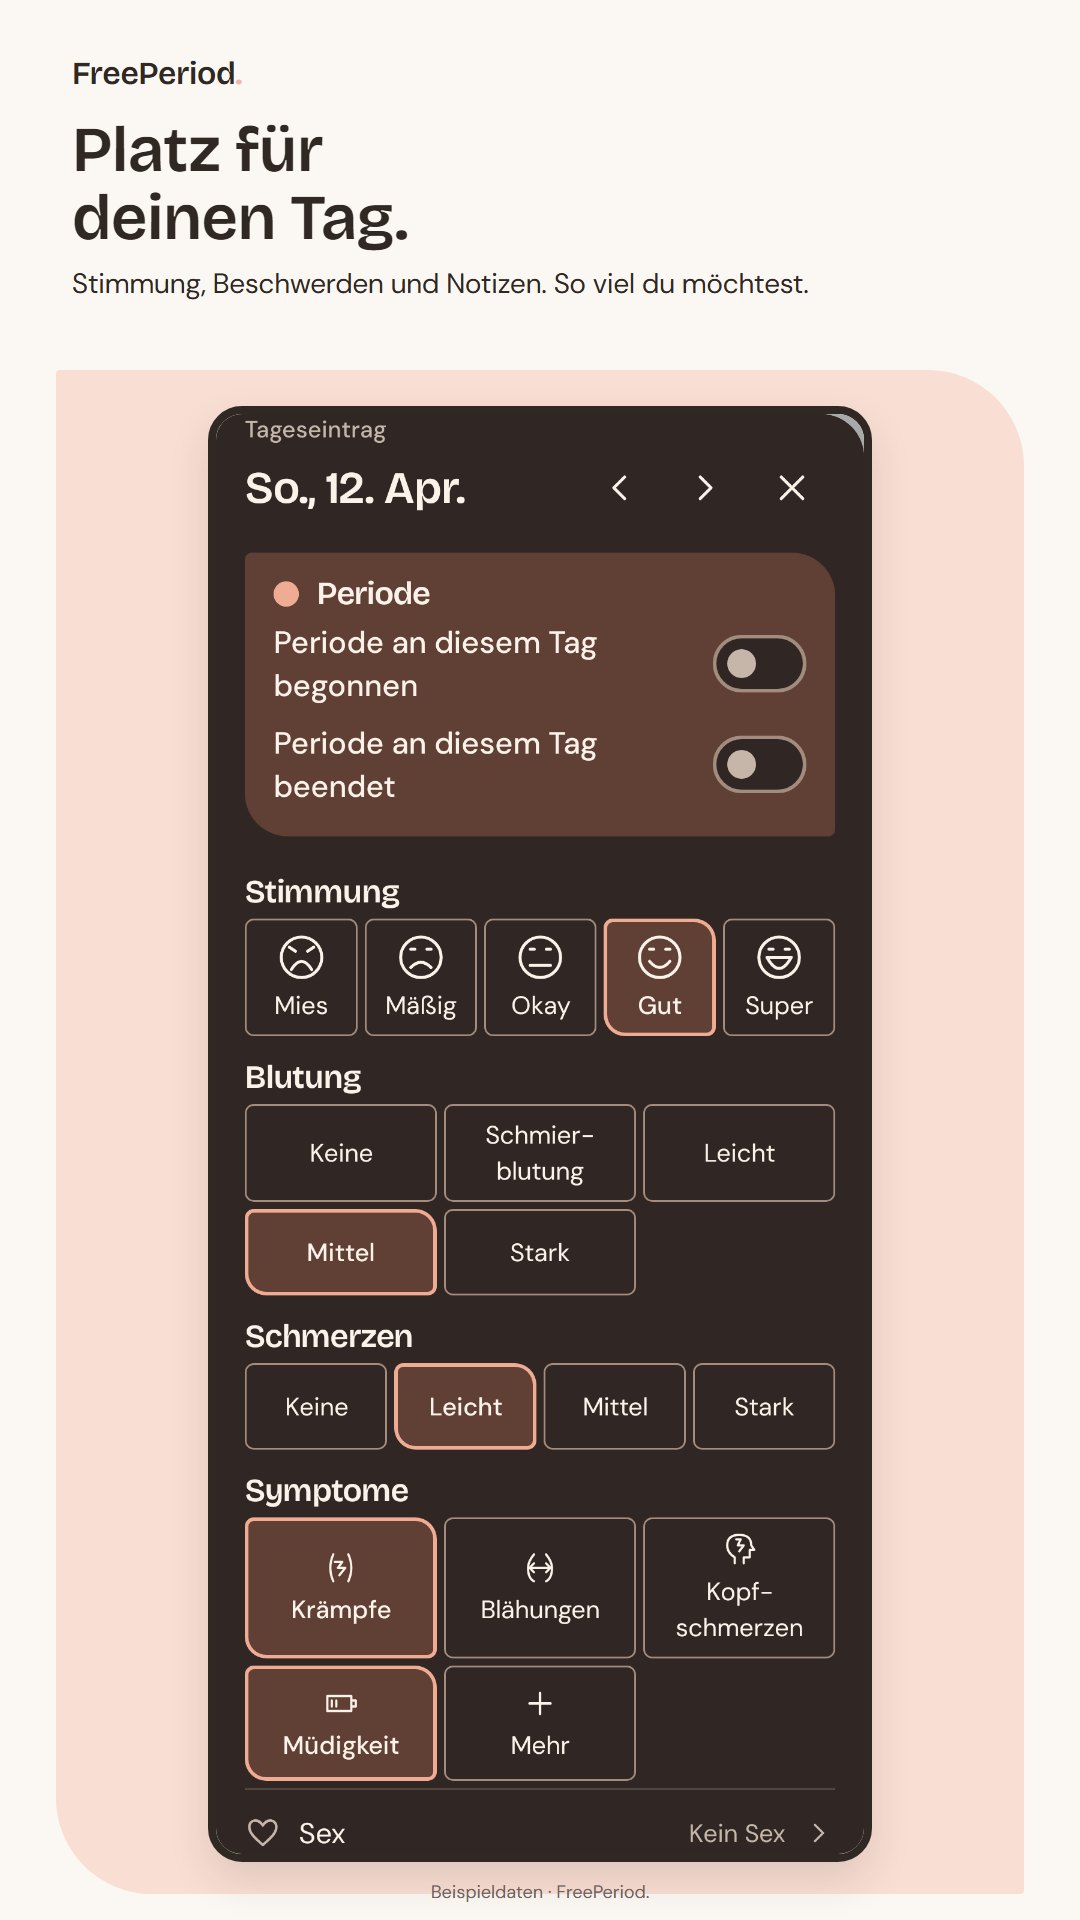
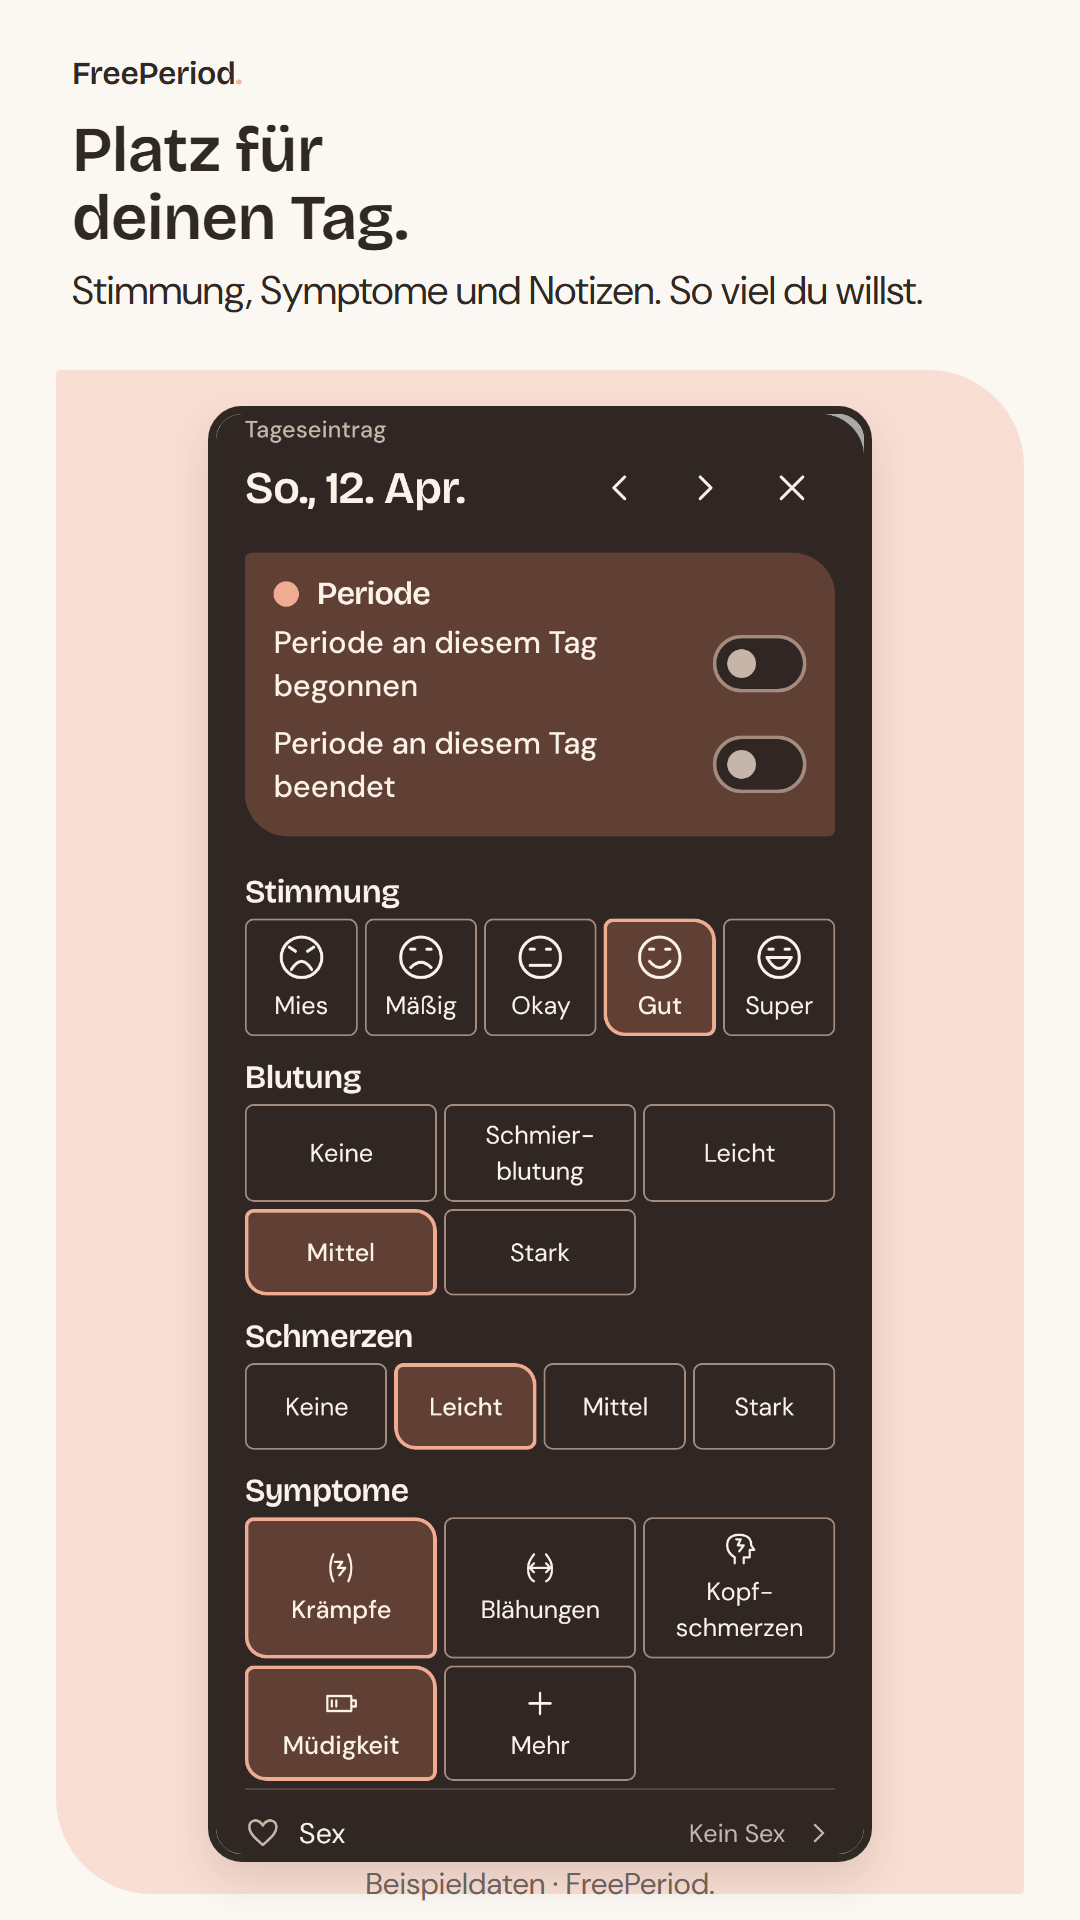
store: captions and small lines readable on a phone (~12-15 dp instead of 7-11 dp)

Changed region(s): [[0.0611, 0.125, 0.8556, 0.1562], [0.3361, 0.9688, 0.6417, 1.0]]

diff --git a/store/artwork.css b/store/artwork.css
@@ -11,9 +11,9 @@ body.artwork { margin: 0; padding: 48px; width: max-content; }
 }
 .feature-copy { position: absolute; left: 56px; top: 40px; width: 580px; }
 .feature .wordmark { font-size: 38px; }
-.feature h1 { font-size: 66px; line-height: 1.06; letter-spacing: -0.6px; margin: 42px 0 20px; }
-.feature p { font-size: 20px; line-height: 1.45; max-width: 440px; }
-.feature .feature-foot { position: absolute; bottom: 28px; left: 56px; margin: 0; font-size: 17px; }
+.feature h1 { font-size: 66px; line-height: 1.06; letter-spacing: -0.6px; margin: 30px 0 18px; }
+.feature p { font-size: 30px; line-height: 1.3; max-width: 560px; }
+.feature .feature-foot { position: absolute; bottom: 28px; left: 56px; margin: 0; font-size: 30px; }
 .feature-phone {
   position: absolute; right: 85px; top: 24px; width: 198px; height: 440px;
   box-sizing: content-box; border: 6px solid var(--ink); border-radius: 26px;
@@ -27,7 +27,7 @@ body.artwork { margin: 0; padding: 48px; width: max-content; }
 .shot header { position: absolute; top: 56px; left: 72px; right: 72px; }
 .shot .wordmark { font-size: 32px; }
 .shot h2 { font-size: 64px; line-height: 1.06; letter-spacing: -0.6px; margin: 24px 0 14px; }
-.shot .caption { font-size: 28px; line-height: 1.35; max-width: 860px; margin: 0; }
+.shot .caption { font-size: 40px; line-height: 1.25; max-width: 860px; margin: 0; }
 .phone-frame {
   position: absolute; top: 406px; left: 50%; transform: translateX(-50%);
   width: 648px; height: 1440px; box-sizing: content-box; border: 8px solid var(--ink);
@@ -35,7 +35,7 @@ body.artwork { margin: 0; padding: 48px; width: max-content; }
   box-shadow: 0 18px 40px #30292320;
 }
 .phone-frame img { display: block; width: 100%; height: 100%; object-fit: contain; }
-.shot footer { position: absolute; bottom: 12px; width: 100%; text-align: center; color: var(--muted); font-size: 18px; }
+.shot footer { position: absolute; bottom: 12px; width: 100%; text-align: center; color: var(--muted); font-size: 30px; }
 .language-note { float: right; padding: 5px 12px; border: 1px solid var(--muted); border-radius: 4px; font-size: 18px; }
 @media print {
   html { background: white; }

diff --git a/store/screenshots-de.html b/store/screenshots-de.html
@@ -31,7 +31,7 @@
       <header>
         <div class="wordmark">FreePeriod<span class="stop">.</span></div>
         <h2 id="title-diary">Platz für<br>deinen Tag.</h2>
-        <p class="caption">Stimmung, Beschwerden und Notizen. So viel du möchtest.</p>
+        <p class="caption">Stimmung, Symptome und Notizen. So viel du willst.</p>
       </header>
       <div class="phone-frame"><img src="../app/src/test/screenshots/day/filled_deDark.png" width="1080" height="2400" alt="Platz für deinen Tag. App-Ansicht mit Beispieldaten."></div>
       <footer>Beispieldaten · FreePeriod.</footer>
